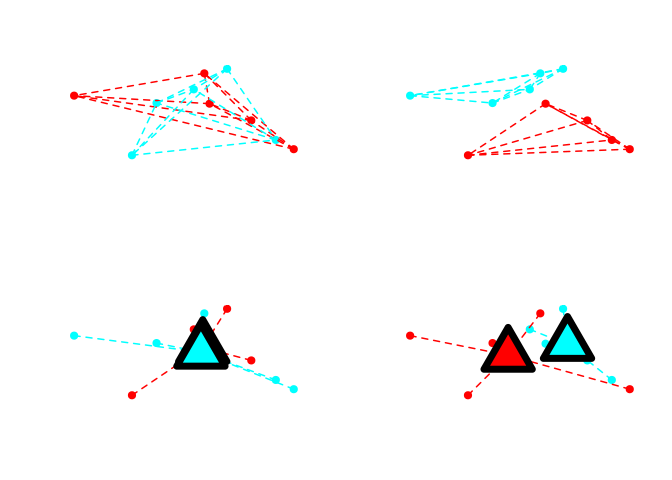
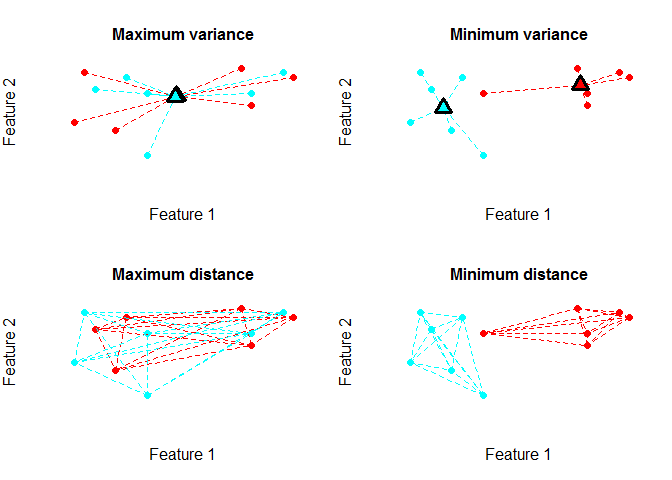
updated README

diff --git a/README.md b/README.md
@@ -35,11 +35,11 @@ anticlusters <- anticlustering(
 ## Look at the output: Per element in the iris data set, I obtain 
 ## a group affiliation:
 anticlusters
-#>   [1] 3 3 3 2 3 2 3 2 1 1 2 1 1 3 1 2 1 1 2 1 2 2 3 2 2 1 2 1 3 2 2 2 1 1 1
-#>  [36] 3 3 3 3 1 3 1 3 2 2 1 2 3 1 3 3 3 1 3 3 1 2 3 1 3 1 1 2 1 2 3 3 3 2 3
-#>  [71] 1 2 2 1 3 3 1 1 1 2 3 2 2 2 1 3 3 2 1 1 3 1 2 2 2 2 3 1 1 2 2 2 3 1 2
-#> [106] 2 3 3 1 3 2 3 3 3 1 2 1 3 1 3 3 2 2 1 1 3 3 1 1 2 2 3 3 2 1 1 2 2 3 3
-#> [141] 1 1 1 1 3 2 2 2 1 2
+#>   [1] 3 2 3 2 3 1 3 2 3 2 1 2 1 3 3 2 3 3 2 1 1 1 3 1 1 2 1 1 2 1 2 1 2 2 2
+#>  [36] 3 2 3 3 2 3 1 3 1 1 1 1 3 2 2 2 2 1 3 3 1 3 2 3 3 1 3 2 2 3 3 1 1 2 1
+#>  [71] 1 3 2 2 1 1 2 1 1 1 2 2 3 1 2 1 1 1 3 3 2 3 3 1 3 2 2 2 3 3 2 2 2 3 3
+#> [106] 3 2 2 2 2 3 3 2 2 3 3 3 3 1 3 2 2 1 1 1 3 1 1 3 1 3 3 1 1 3 3 2 1 1 3
+#> [141] 2 2 1 2 1 1 2 2 1 1
 
 ## Compare the feature means by anticluster:
 by(iris[, -5], anticlusters, function(x) round(colMeans(x), 2))
@@ -49,7 +49,7 @@ by(iris[, -5], anticlusters, function(x) round(colMeans(x), 2))
 #> -------------------------------------------------------- 
 #> anticlusters: 2
 #> Sepal.Length  Sepal.Width Petal.Length  Petal.Width 
-#>         5.85         3.06         3.76         1.20 
+#>         5.84         3.05         3.76         1.20 
 #> -------------------------------------------------------- 
 #> anticlusters: 3
 #> Sepal.Length  Sepal.Width Petal.Length  Petal.Width 
@@ -124,40 +124,71 @@ illustrates maximizing and minimizing both objectives:
 
 ``` r
 
-features <- matrix(rnorm(20), ncol = 2)
-anticlusters_dist <- anticlustering(
-  features, 
-  K = 2,
-  method = "ilp",
-  objective = "distance"
-)
-## anticlust can also be used for cluster analysis:
-clusters_dist <- balanced_clustering( 
-  features, 
-  K = 2,
-  method = "ilp",
-  objective = "distance"
+## Create N random elements:
+N <- 12
+features <- matrix(sample(N * 2, replace = TRUE), ncol = 2)
+K <- 2
+
+## Generate all possible partitions to divide N items in K sets:
+partitions <- generate_partitions(K, N)
+length(partitions) # number of possible partitions
+#> [1] 462
+
+## Create an objective function that takes the partition
+## as first argument (then, we can use sapply to compute
+## the objective for each partition)
+var_obj <- function(clusters, features) {
+  variance_objective(features, clusters)
+}
+
+dist_obj <- function(clusters, features) {
+  distance_objective(features, clusters = clusters)
+}
+
+var_objectives <- sapply(
+  partitions,
+  FUN = var_obj,
+  features = features
 )
 
-anticlusters_var <- anticlustering(
-  features, 
-  K = 2,
-  method = "exchange",
-  objective = "variance"
-)
-## anticlust can also be used for cluster analysis:
-clusters_var <- balanced_clustering( 
-  features, 
-  K = 2,
-  method = "heuristic",
-  objective = "variance"
+dist_objectives <- sapply(
+  partitions,
+  FUN = dist_obj,
+  features = features
 )
 
+## Select the best partitions:
+max_var <- partitions[var_objectives == max(var_objectives)][[1]]
+min_var <- partitions[var_objectives == min(var_objectives)][[1]]
+max_dist <- partitions[dist_objectives == max(dist_objectives)][[1]]
+min_dist <- partitions[dist_objectives == min(dist_objectives)][[1]]
+
+## Plot minimum and maximum objectives:
 par(mfrow = c(2, 2))
-plot_clusters(features, anticlusters_dist, within_connection = TRUE, xlab = "", ylab = "")
-plot_clusters(features, clusters_dist, within_connection = TRUE, xlab = "", ylab = "")
-plot_clusters(features, anticlusters_var, illustrate_variance = TRUE, xlab = "", ylab = "")
-plot_clusters(features, clusters_var, illustrate_variance = TRUE, xlab = "", ylab = "")
+plot_clusters(
+  features,
+  max_var,
+  illustrate_variance = TRUE,
+  main = "Maximum variance"
+)
+plot_clusters(
+  features,
+  min_var,
+  illustrate_variance = TRUE,
+  main = "Minimum variance"
+)
+plot_clusters(
+  features,
+  max_dist,
+  within_connection = TRUE,
+  main = "Maximum distance"
+)
+plot_clusters(
+  features,
+  min_dist,
+  within_connection = TRUE,
+  main = "Minimum distance"
+)
 ```
 
 <img src="inst/README_files/figure-gfm/unnamed-chunk-2-1.png" style="display: block; margin: auto;" />
@@ -308,7 +339,7 @@ Böcker, Sebastian, and Jan Baumbach. 2013. “Cluster Editing.” In
 
 Böcker, Sebastian, Sebastian Briesemeister, and Gunnar W Klau. 2011.
 “Exact Algorithms for Cluster Editing: Evaluation and Experiments.”
-*Algorithmica* 60 (2). Springer: 316–34.
+*Algorithmica* 60 (2): 316–34.
 
 </div>
 
@@ -316,14 +347,14 @@ Böcker, Sebastian, Sebastian Briesemeister, and Gunnar W Klau. 2011.
 
 Grötschel, Martin, and Yoshiko Wakabayashi. 1989. “A Cutting Plane
 Algorithm for a Clustering Problem.” *Mathematical Programming* 45
-(1-3). Springer: 59–96.
+(1-3): 59–96.
 
 </div>
 
 <div id="ref-jain2010">
 
 Jain, Anil K. 2010. “Data Clustering: 50 Years Beyond K-Means.” *Pattern
-Recognition Letters* 31 (8). Elsevier: 651–66.
+Recognition Letters* 31 (8): 651–66.
 
 </div>
 
@@ -331,7 +362,7 @@ Recognition Letters* 31 (8). Elsevier: 651–66.
 
 Miyauchi, Atsushi, and Noriyoshi Sukegawa. 2015. “Redundant Constraints
 in the Standard Formulation for the Clique Partitioning Problem.”
-*Optimization Letters* 9 (1). Springer: 199–207.
+*Optimization Letters* 9 (1): 199–207.
 
 </div>
 

diff --git a/inst/NEWS.md b/inst/NEWS.md
@@ -28,6 +28,9 @@ Minor changes:
 
 - The "variance" criterion can now be computed when there are missing 
   values in the input data.
+- In `plot_clusters`, it is now possible to adjust the size of the 
+  cluster centroid using the new argument `cex_centroid`
+  
 
 # anticlust 0.2.6
 
